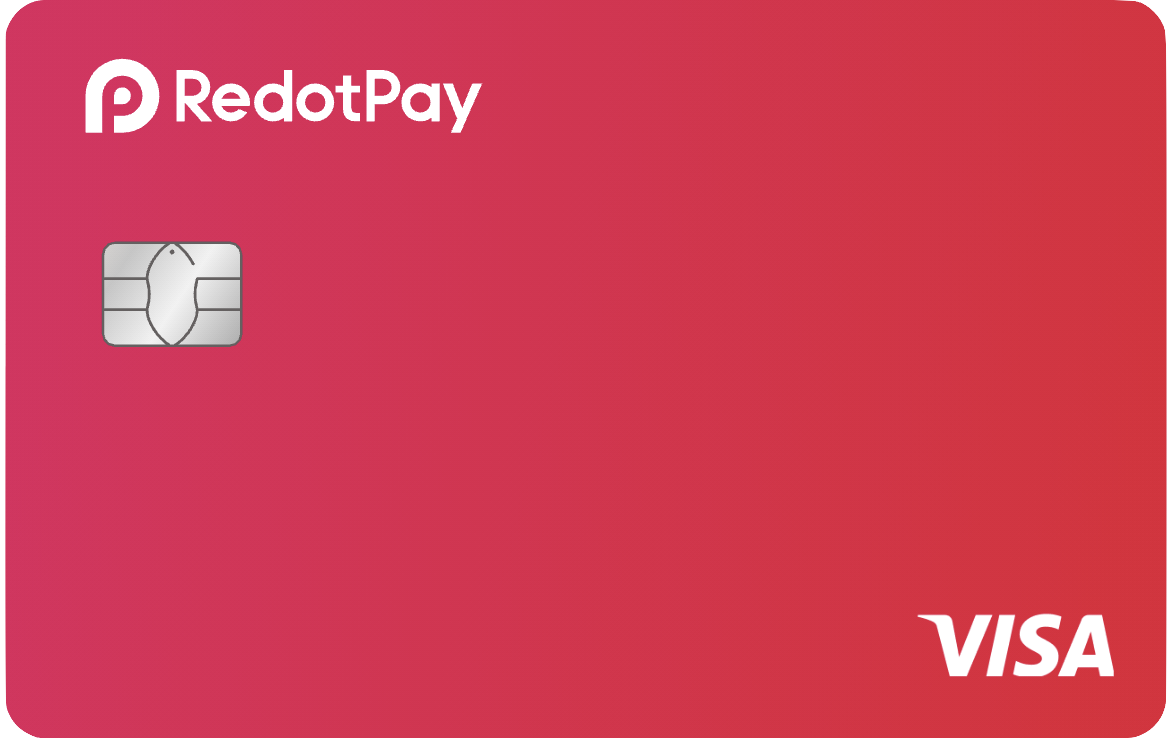
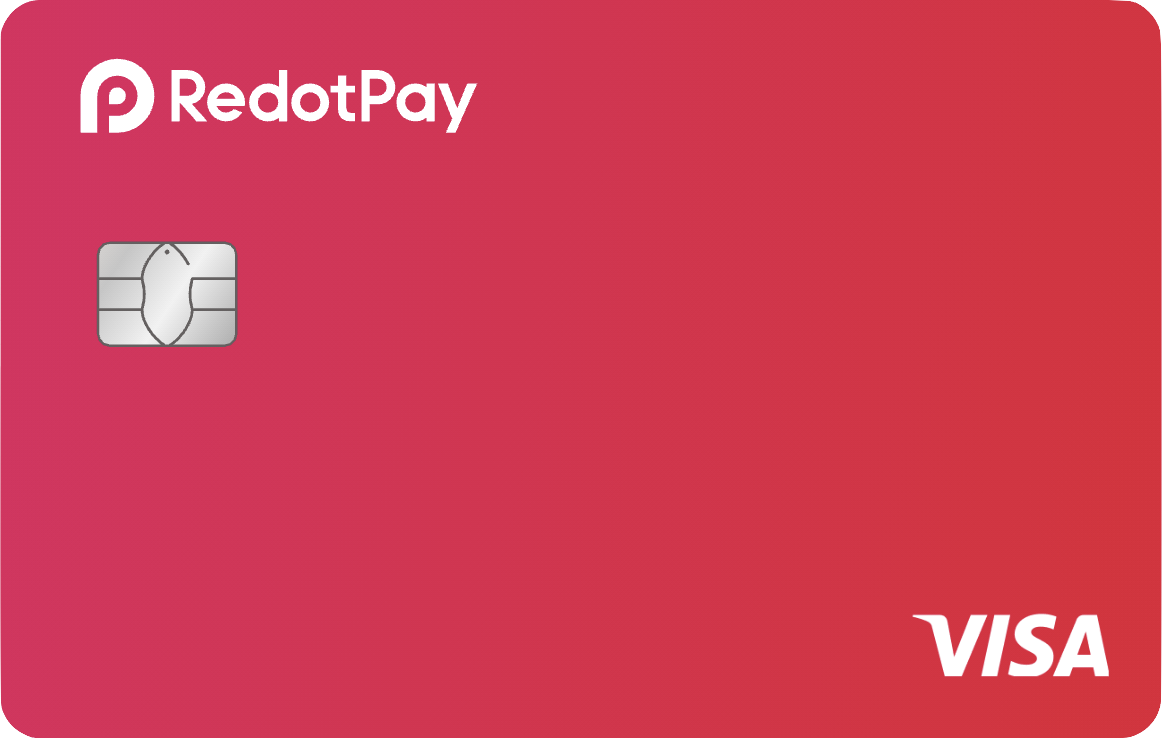
Remove card image margins and eliminate display padding
- Trim transparent/white borders from card PNGs (bitget, kast, redotpay, tevau, tria)
- Rewrite CardArtwork: drop bleed/paddingClassName props, always use object-cover with no padding
- Use bg-[#05070b] as unified dark background; rounded corners applied per-caller via className
- Update all CardArtwork callsites (ShowcaseCard, page, top-picks, compare, cards detail)

diff --git a/components/cards/CardArtwork.tsx b/components/cards/CardArtwork.tsx
@@ -10,9 +10,6 @@ interface CardArtworkProps {
   className?: string;
   imageClassName?: string;
   fallbackClassName?: string;
-  stageClassName?: string;
-  paddingClassName?: string;
-  bleed?: boolean;
 }
 
 export default function CardArtwork({
@@ -21,9 +18,6 @@ export default function CardArtwork({
   className,
   imageClassName,
   fallbackClassName,
-  stageClassName,
-  paddingClassName,
-  bleed = false,
 }: CardArtworkProps) {
   const primarySrc = card.cardImage ?? card.image;
   const [src, setSrc] = useState(primarySrc);
@@ -34,56 +28,27 @@ export default function CardArtwork({
 
   return (
     <div
-      className={cn(
-        bleed
-          ? "relative overflow-hidden rounded-[20px] border border-black/10 bg-black shadow-[0_10px_24px_rgba(15,23,42,0.12)]"
-          : "relative overflow-hidden rounded-[20px] border border-white/8 bg-[linear-gradient(180deg,#07111a_0%,#05080d_100%)] shadow-[0_10px_30px_rgba(2,8,20,0.12)]",
-        className,
-      )}
+      className={cn("relative overflow-hidden bg-[#05070b]", className)}
       style={{ aspectRatio: "1200 / 756" }}
     >
-      {!bleed && (
-        <>
-          <div
-            className={cn(
-              "pointer-events-none absolute inset-x-[9%] top-[6%] h-[38%] rounded-full bg-white/10 blur-3xl",
-              stageClassName,
-            )}
-          />
-          <div className="absolute inset-0 bg-[radial-gradient(circle_at_top,rgba(255,255,255,0.08),transparent_38%)]" />
-        </>
+      {src ? (
+        <img
+          src={src}
+          alt={alt ?? card.name}
+          className={cn("block h-full w-full object-cover", imageClassName)}
+          onError={() => setSrc(undefined)}
+        />
+      ) : (
+        <div
+          className={cn(
+            "flex h-full w-full items-center justify-center text-3xl text-white",
+            card.coverColor,
+            fallbackClassName,
+          )}
+        >
+          {card.logo}
+        </div>
       )}
-      <div
-        className={cn(
-          "relative flex h-full items-center justify-center",
-          bleed ? "p-0" : "p-5 sm:p-6",
-          paddingClassName,
-        )}
-      >
-        {src ? (
-          <img
-            src={src}
-            alt={alt ?? card.name}
-            className={cn(
-              bleed
-                ? "h-full w-full object-cover"
-                : "max-h-full w-full rounded-[16px] object-contain drop-shadow-[0_18px_24px_rgba(0,0,0,0.18)]",
-              imageClassName,
-            )}
-            onError={() => setSrc(undefined)}
-          />
-        ) : (
-          <div
-            className={cn(
-              "flex h-full w-full items-center justify-center rounded-[16px] bg-gradient-to-br text-3xl text-white",
-              card.coverColor,
-              fallbackClassName,
-            )}
-          >
-            {card.logo}
-          </div>
-        )}
-      </div>
     </div>
   );
 }

diff --git a/app/compare/page.tsx b/app/compare/page.tsx
@@ -42,10 +42,8 @@ export default function ComparePage() {
             >
               <CardArtwork
                 card={card}
-                className="mb-2"
-                imageClassName="rounded-[14px]"
+                className="mb-2 rounded-[14px]"
                 fallbackClassName="rounded-lg text-2xl"
-                paddingClassName="p-3"
               />
               <p className="text-xs font-medium text-gray-900">{card.name}</p>
             </Link>
@@ -74,10 +72,8 @@ export default function ComparePage() {
                     {i > 0 && <span className="text-gray-400 text-sm font-bold">vs</span>}
                     <CardArtwork
                       card={card!}
-                      className="w-24"
-                      imageClassName="rounded-[14px]"
+                      className="w-24 rounded-[14px]"
                       fallbackClassName="rounded-xl text-xl"
-                      paddingClassName="p-2.5"
                     />
                   </div>
                 ))}
@@ -115,10 +111,8 @@ export default function ComparePage() {
             >
               <CardArtwork
                 card={card}
-                className="w-16 flex-shrink-0"
-                imageClassName="rounded-[12px]"
+                className="w-16 flex-shrink-0 rounded-[12px]"
                 fallbackClassName="rounded-lg text-sm"
-                paddingClassName="p-2"
               />
               <span className="truncate font-medium text-gray-900">{card.name}</span>
             </Link>

diff --git a/app/compare/[slug]/page.tsx b/app/compare/[slug]/page.tsx
@@ -129,10 +129,8 @@ export default function CompareDetailPage({ params }: { params: { slug: string }
                   <div className="flex flex-col items-center gap-2">
                     <CardArtwork
                       card={card}
-                      className="w-28"
-                      imageClassName="rounded-[14px]"
+                      className="w-28 rounded-[14px]"
                       fallbackClassName="rounded-xl text-xl"
-                      paddingClassName="p-3"
                     />
                     <Link href={`/cards/${card.slug}`} className="font-bold text-gray-900 hover:text-blue-600 text-sm">
                       {card.name}
@@ -224,10 +222,8 @@ export default function CompareDetailPage({ params }: { params: { slug: string }
             <div className="flex items-center gap-3 mb-4">
               <CardArtwork
                 card={card}
-                className="w-24 flex-shrink-0"
-                imageClassName="rounded-[14px]"
+                className="w-24 flex-shrink-0 rounded-[14px]"
                 fallbackClassName="rounded-xl text-xl"
-                paddingClassName="p-2.5"
               />
               <h3 className="font-bold text-gray-900">{card.name}</h3>
             </div>

diff --git a/app/cards/[slug]/page.tsx b/app/cards/[slug]/page.tsx
@@ -91,10 +91,8 @@ export default function CardDetailPage({ params }: { params: { slug: string } })
               {card.cardImage ?? card.image ? (
                 <CardArtwork
                   card={card}
-                  className="w-full sm:w-72 flex-shrink-0"
-                  imageClassName="rounded-[18px]"
+                  className="w-full sm:w-72 flex-shrink-0 rounded-[18px]"
                   fallbackClassName="rounded-xl text-3xl"
-                  paddingClassName="p-5 sm:p-6"
                 />
               ) : (
                 <div className="w-16 h-16 bg-white/20 rounded-2xl flex items-center justify-center text-3xl flex-shrink-0">
@@ -266,8 +264,7 @@ export default function CardDetailPage({ params }: { params: { slug: string } })
           <div className="bg-white border-2 border-blue-100 rounded-2xl p-6 sticky top-24">
             <CardArtwork
               card={card}
-              className="mb-4 shadow-sm"
-              imageClassName="rounded-xl"
+              className="mb-4 rounded-xl shadow-sm"
               fallbackClassName="rounded-xl text-3xl"
             />
             <h3 className="font-bold text-gray-900 text-lg mb-1">{card.name}</h3>

diff --git a/app/top-picks/[slug]/page.tsx b/app/top-picks/[slug]/page.tsx
@@ -135,10 +135,8 @@ export default function TopPickDetailPage({ params }: { params: { slug: string }
                   {card.cardImage ?? card.image ? (
                     <CardArtwork
                       card={card}
-                      className="flex-shrink-0 w-36 sm:w-44"
-                      imageClassName="rounded-[16px]"
+                      className="flex-shrink-0 w-36 sm:w-44 rounded-[16px]"
                       fallbackClassName="rounded-xl text-2xl"
-                      paddingClassName="p-4 sm:p-5"
                     />
                   ) : (
                     <div className={`w-14 h-14 bg-gradient-to-br ${card.coverColor} rounded-xl flex items-center justify-center text-2xl flex-shrink-0`}>

diff --git a/app/page.tsx b/app/page.tsx
@@ -159,11 +159,8 @@ export default function HomePage() {
                     <div className="sm:w-[240px] sm:flex-shrink-0">
                       <CardArtwork
                         card={card}
-                        bleed
                         className="rounded-[20px] border border-black/10 shadow-[0_10px_22px_rgba(15,23,42,0.12)]"
-                        imageClassName="block h-full w-full"
                         fallbackClassName="text-2xl"
-                        paddingClassName="p-0"
                       />
                     </div>
 

diff --git a/components/cards/ShowcaseCard.tsx b/components/cards/ShowcaseCard.tsx
@@ -49,11 +49,7 @@ export default function ShowcaseCard({
       <div className="relative bg-[#05070b]">
         <CardArtwork
           card={card}
-          bleed
-          className="rounded-none border-0 shadow-none"
-          imageClassName="block h-full w-full"
           fallbackClassName="text-2xl"
-          paddingClassName="p-0"
         />
         <div className="pointer-events-none absolute inset-x-0 bottom-0 h-16 bg-gradient-to-t from-black/18 to-transparent" />
         <div className="absolute left-3 top-3 flex items-start gap-2">
